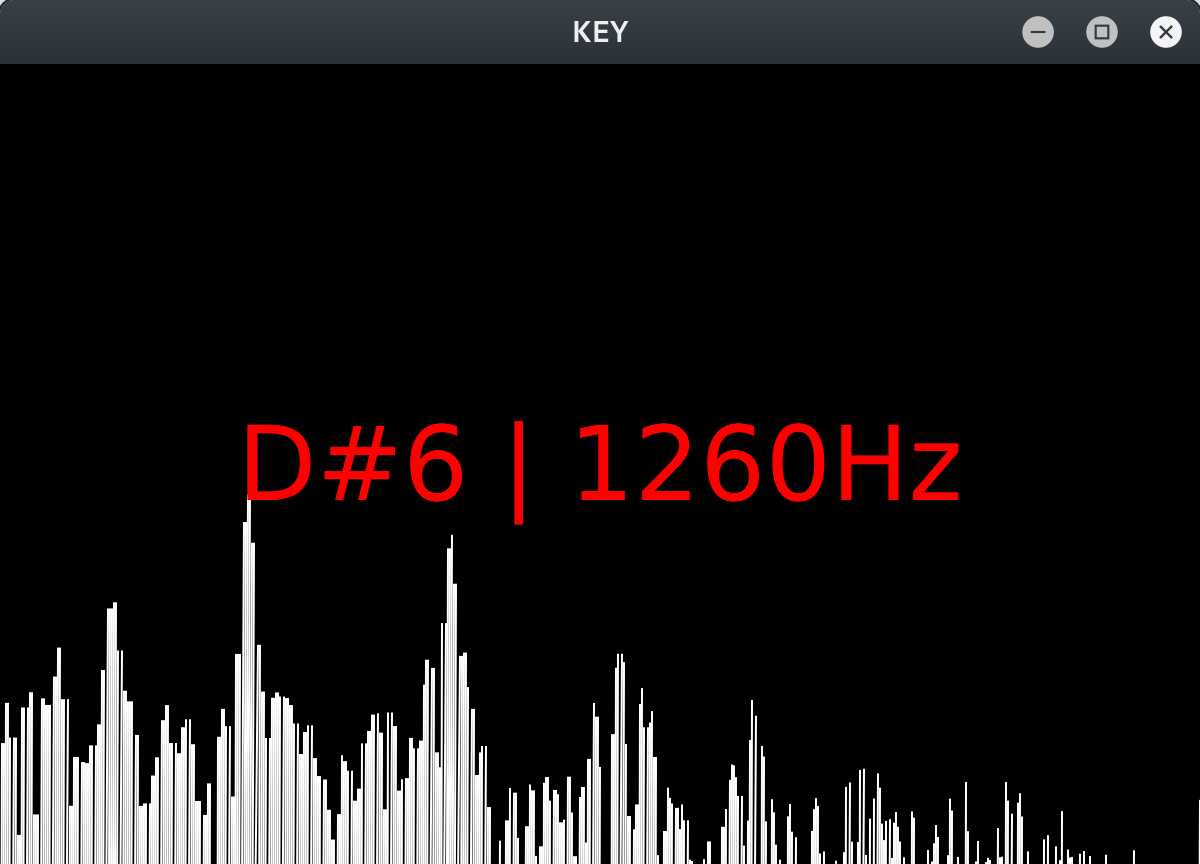
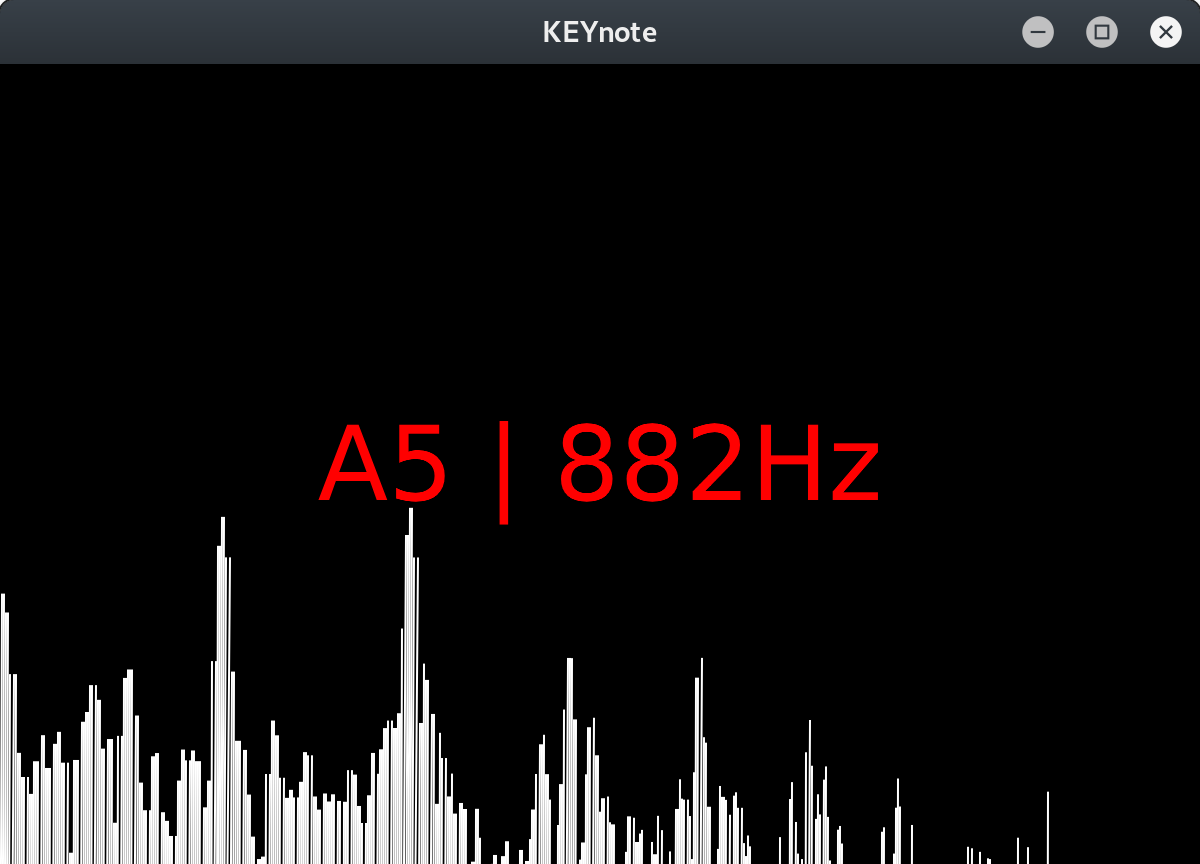
Update title and screenshot

Changed region(s): [[0.0, 0.4688, 0.8942, 1.0], [0.4317, 0.0, 0.555, 0.0625], [0.9867, 0.9688, 1.0, 1.0]]

diff --git a/SpectrumAnalyserTutorial/Source/Main.cpp b/SpectrumAnalyserTutorial/Source/Main.cpp
@@ -20,7 +20,7 @@ public:
   const String getApplicationVersion() override { return "1.0.0"; }
 
   void initialise(const String &) override {
-    mainWindow.reset(new MainWindow("KEY", new AnalyserComponent(), *this));
+    mainWindow.reset(new MainWindow("KEYnote", new AnalyserComponent(), *this));
   }
   void shutdown() override { mainWindow = nullptr; }
 
